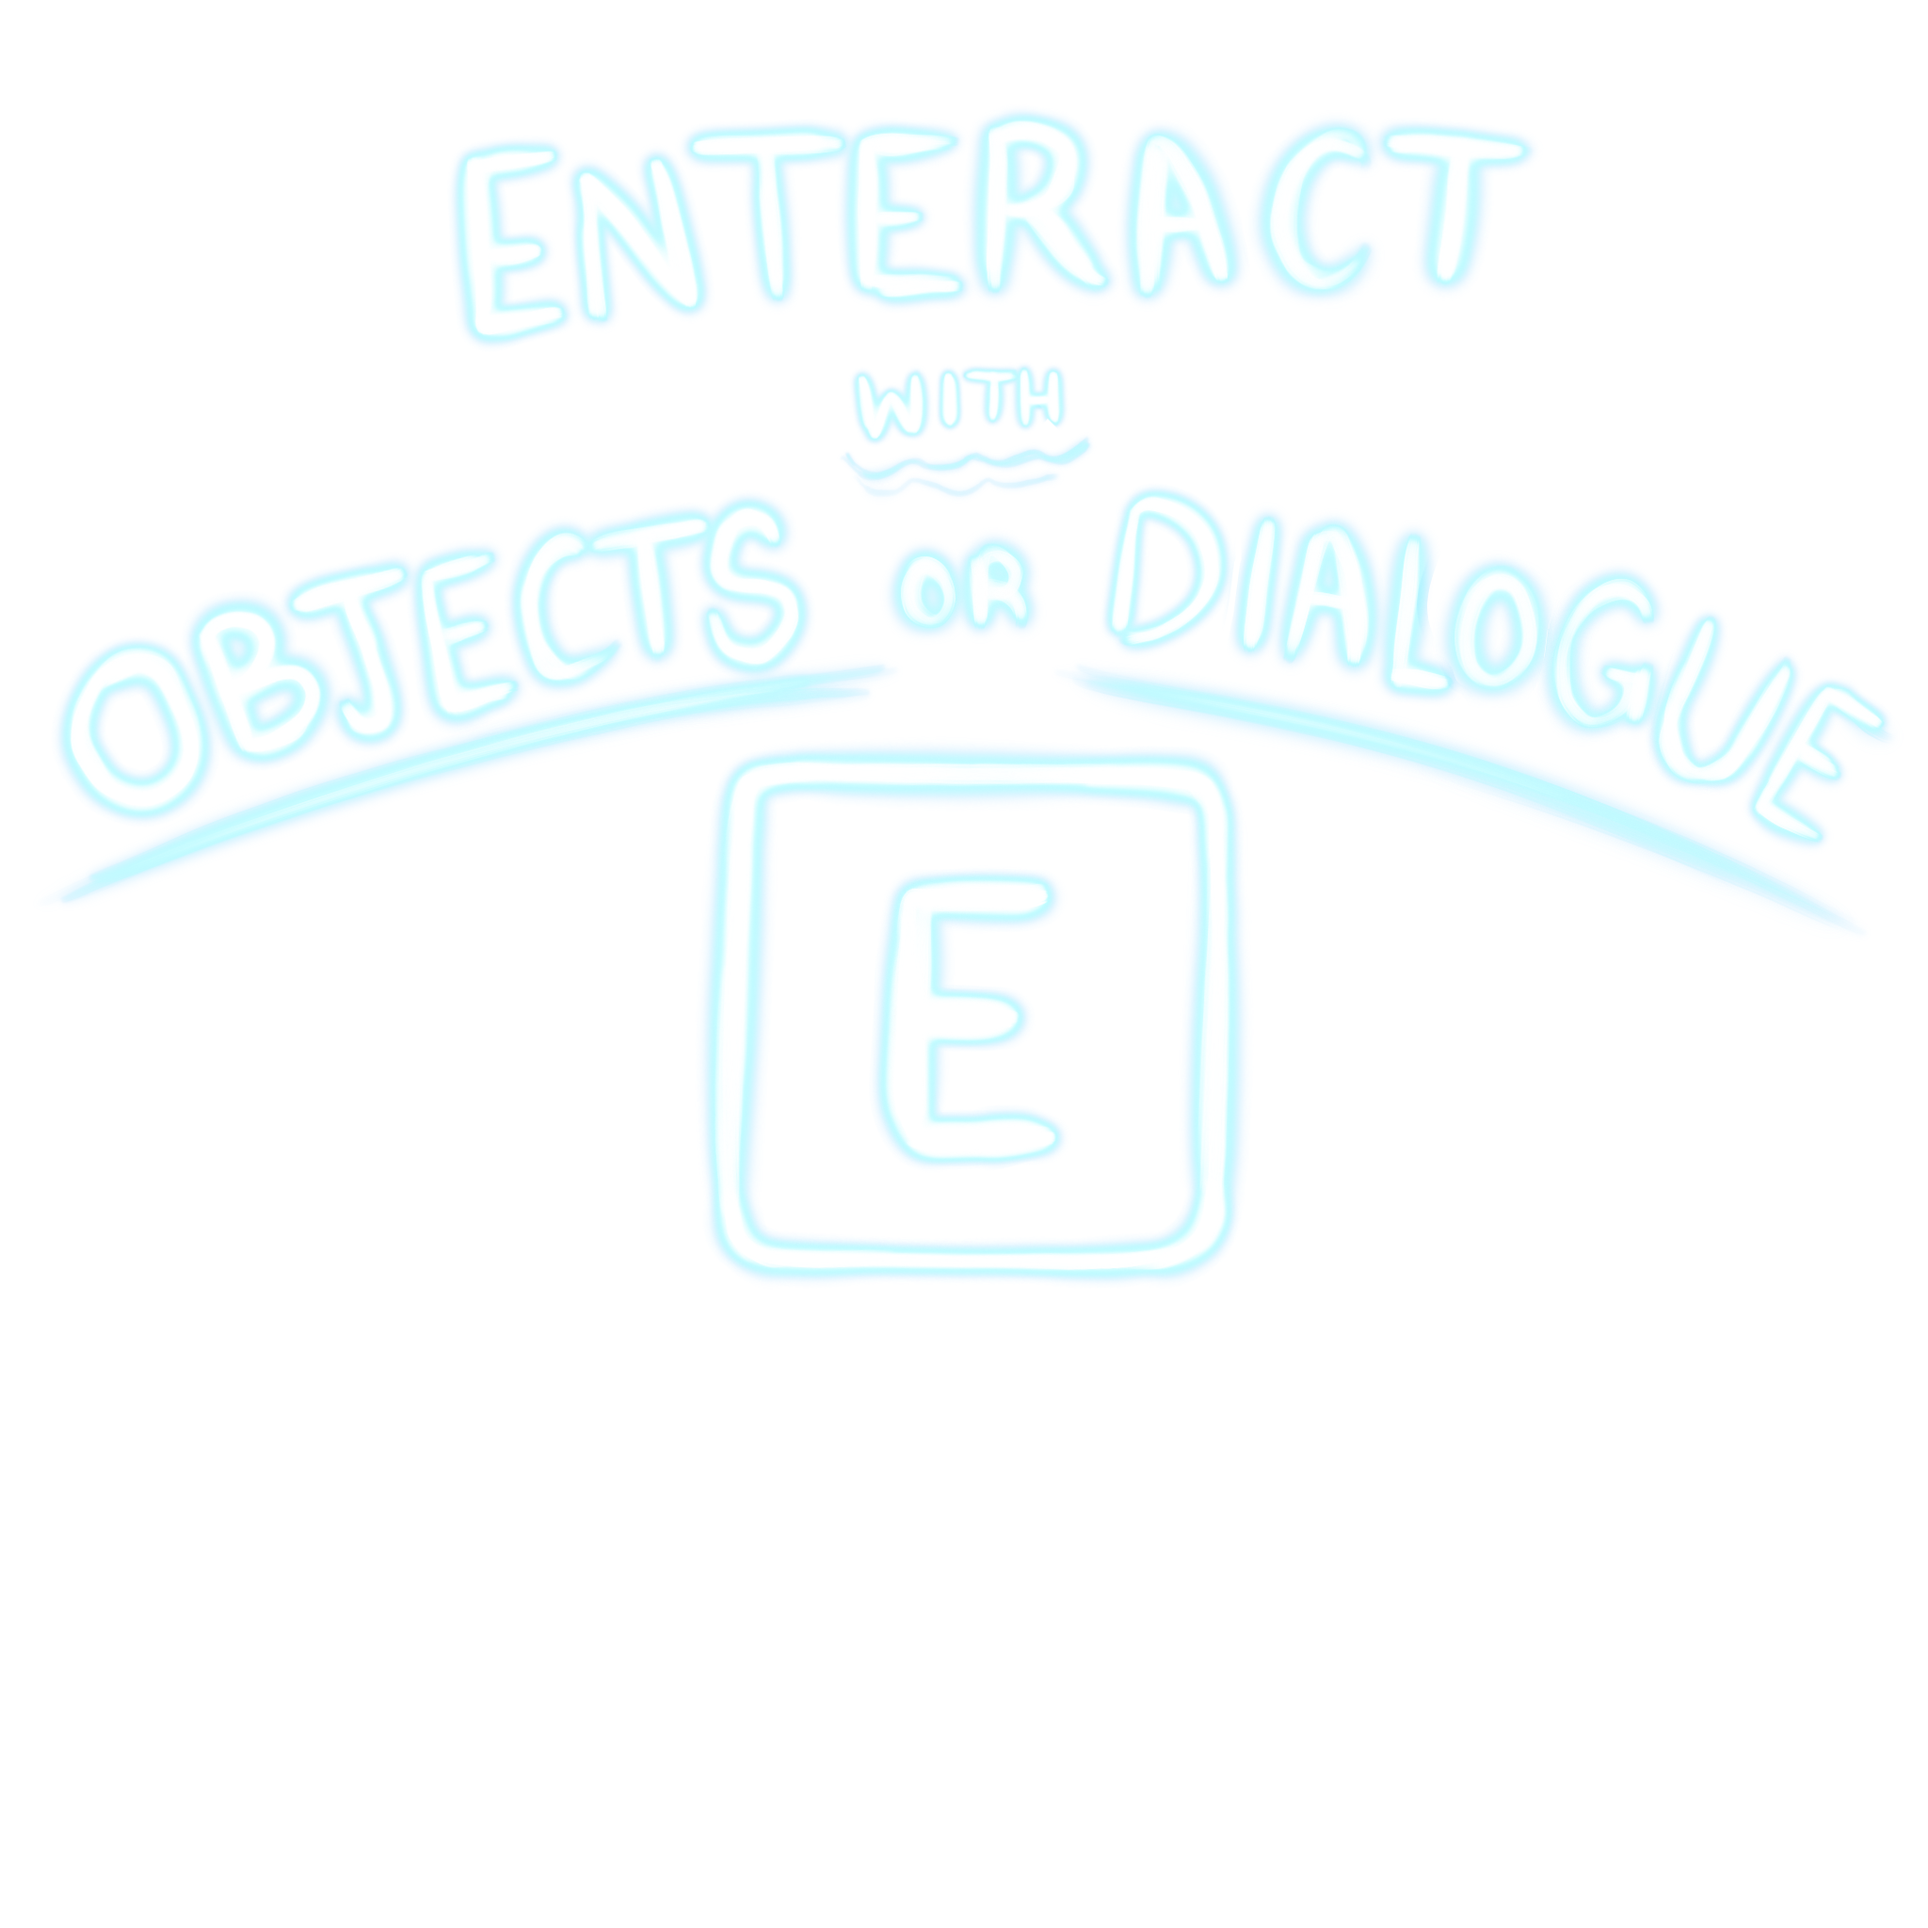
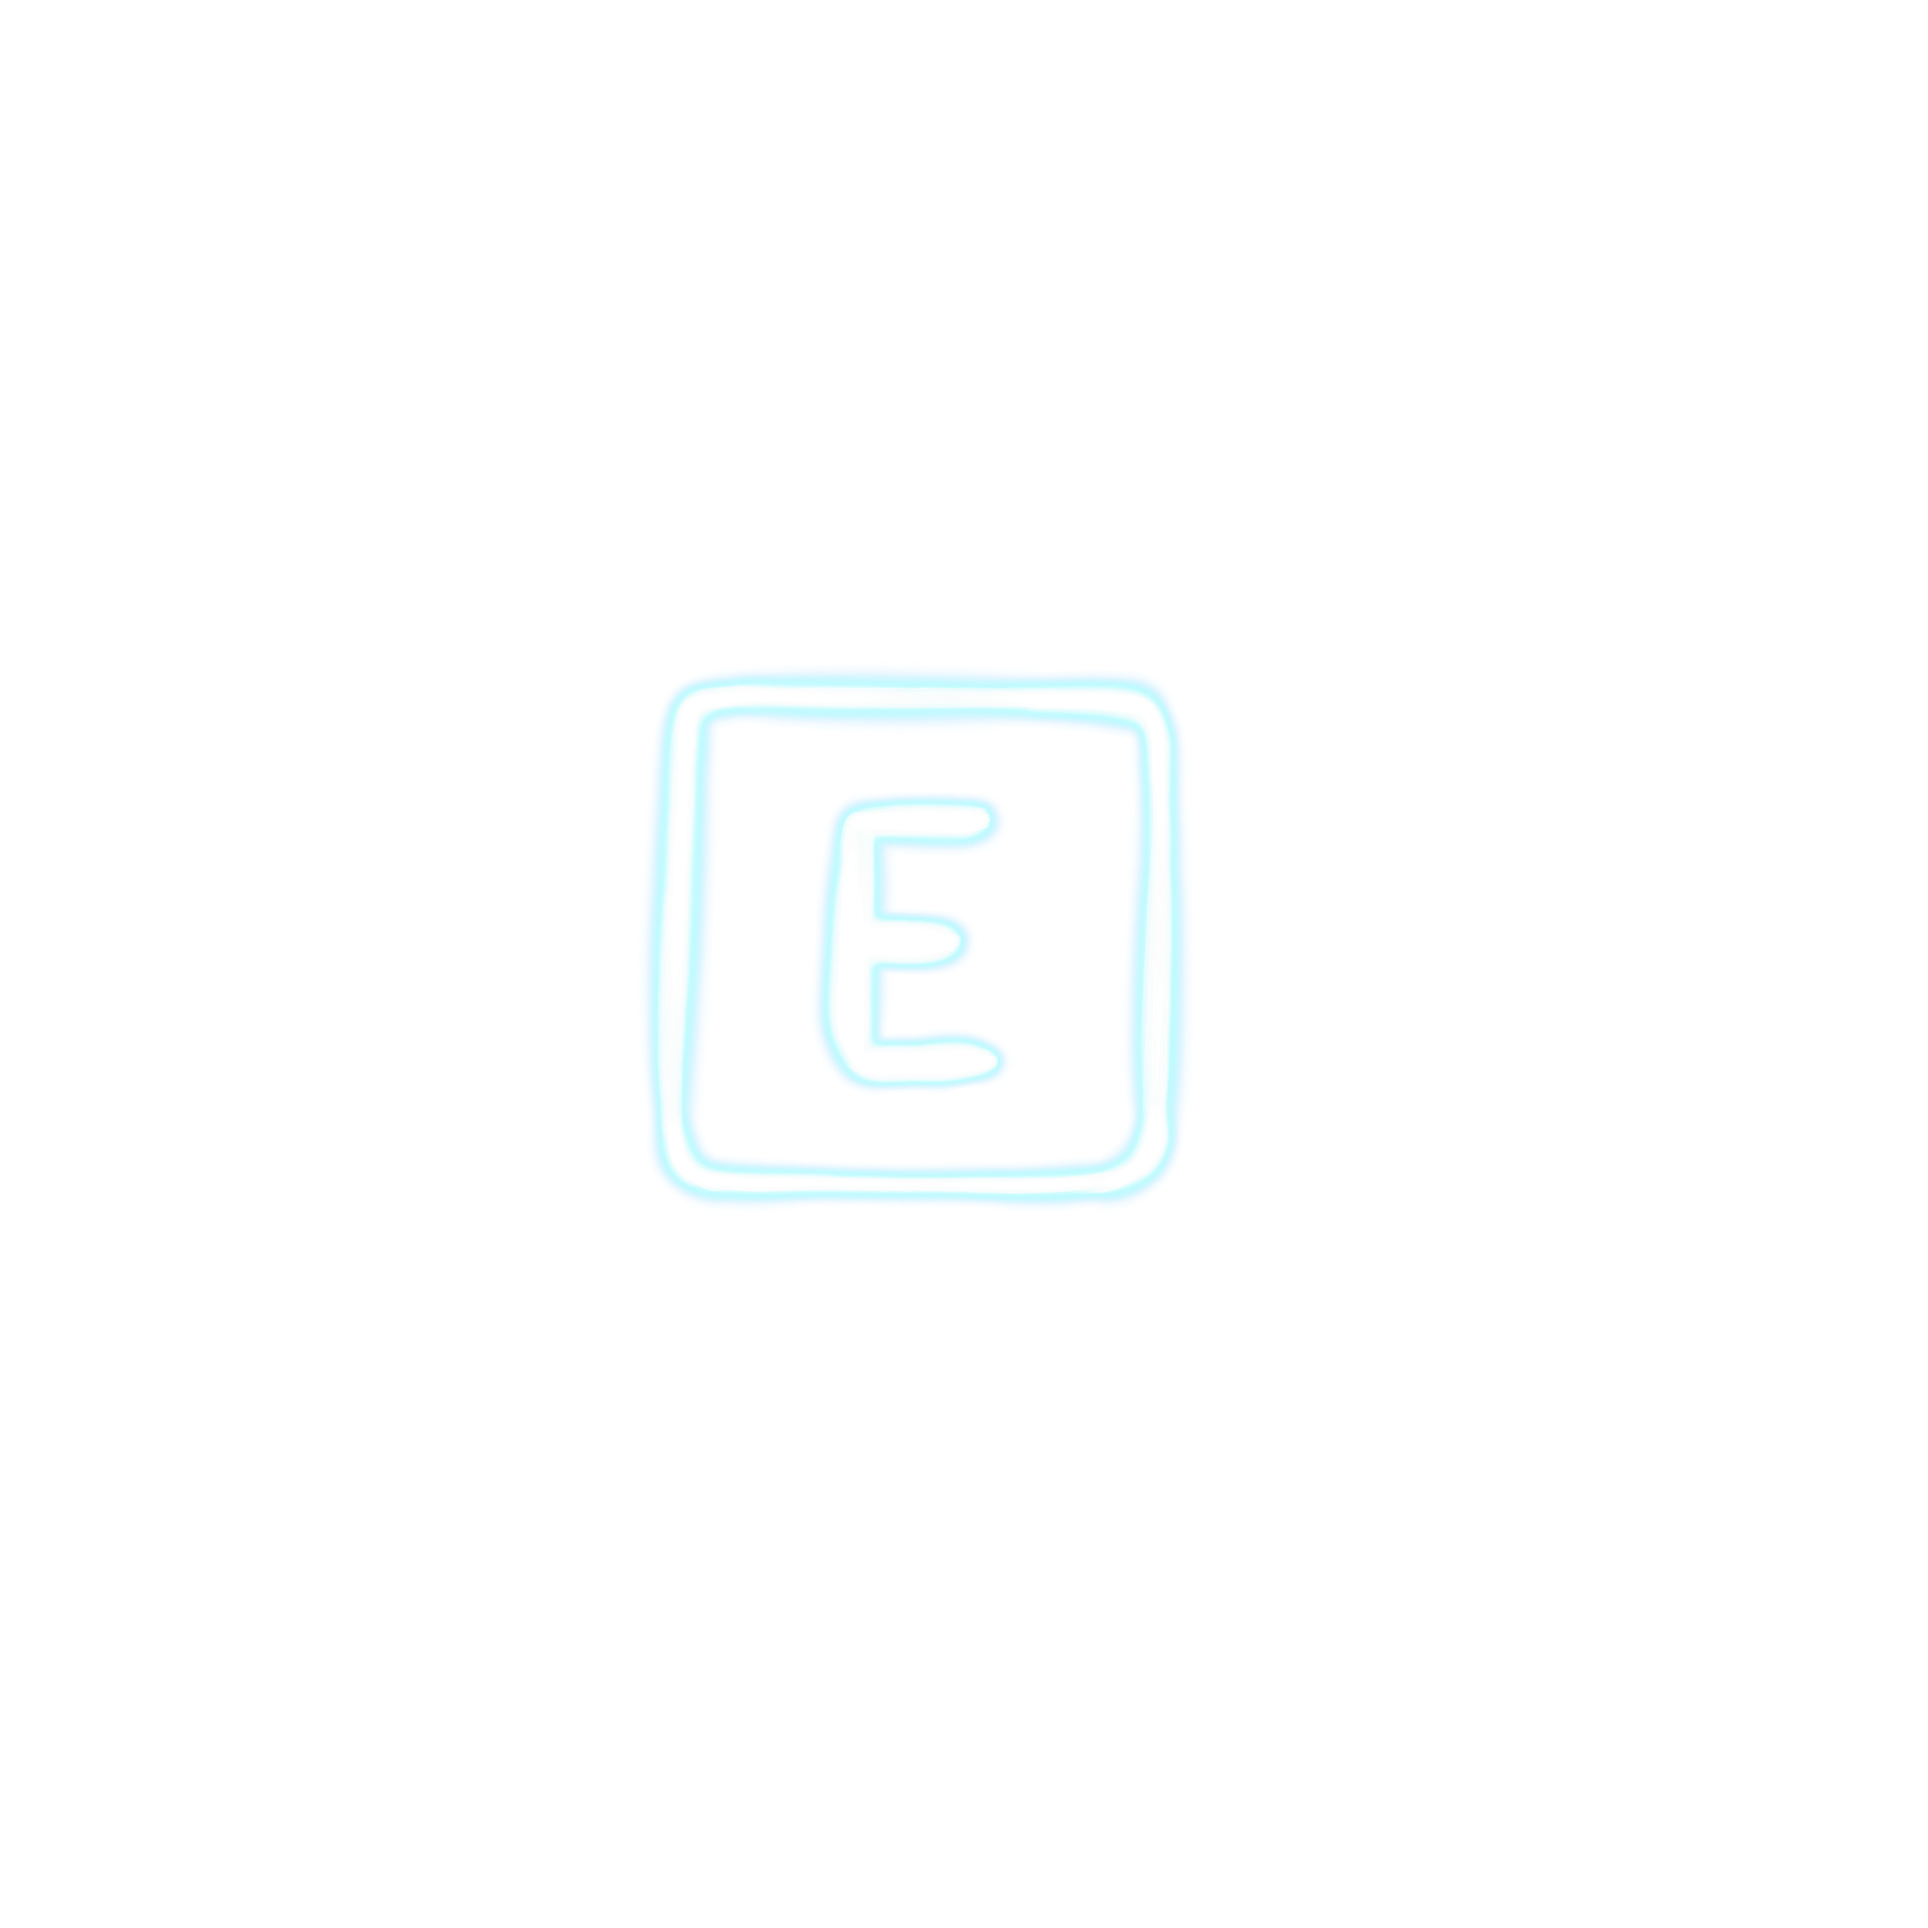
interaction player feedback

Changed region(s): [[0.0312, 0.25, 0.9688, 0.6875], [0.2188, 0.0625, 0.8125, 0.1875], [0.4375, 0.1875, 0.5625, 0.25]]

diff --git a/Major Project/Assets/Scripts/Interactables/InteractionHandler.cs b/Major Project/Assets/Scripts/Interactables/InteractionHandler.cs
@@ -64,7 +64,7 @@ public class InteractionHandler : MonoBehaviour
             }
         }
         currentInteractable = nearestInteractable;
-        if (interactionUI != null && currentInteractable != null) { interactionUI.transform.position = Camera.main.WorldToScreenPoint(currentInteractable.transform.position); }
+        if (interactionUI != null && currentInteractable != null) { interactionUI.transform.position = Camera.main.WorldToScreenPoint(transform.position+new Vector3(0,1.4f,0)); }
     }
 
     IEnumerator FadeUI(float startAlpha, float targetAlpha, float duration)

diff --git a/Major Project/Assets/Scripts/Player/Controls.cs b/Major Project/Assets/Scripts/Player/Controls.cs
@@ -123,7 +123,7 @@ public class Controls : MonoBehaviour
             essenceCollected = 4;
         }
         collectedSparepart = false;
-        if (Input.GetKeyDown(KeyCode.V)) transform.position = new Vector3(380, -6, 0);
+        if (Input.GetKeyDown(KeyCode.V)) transform.position = new Vector3(224, -10, 0);
     }
     void OnCollisionEnter2D(Collision2D collision)
     {
